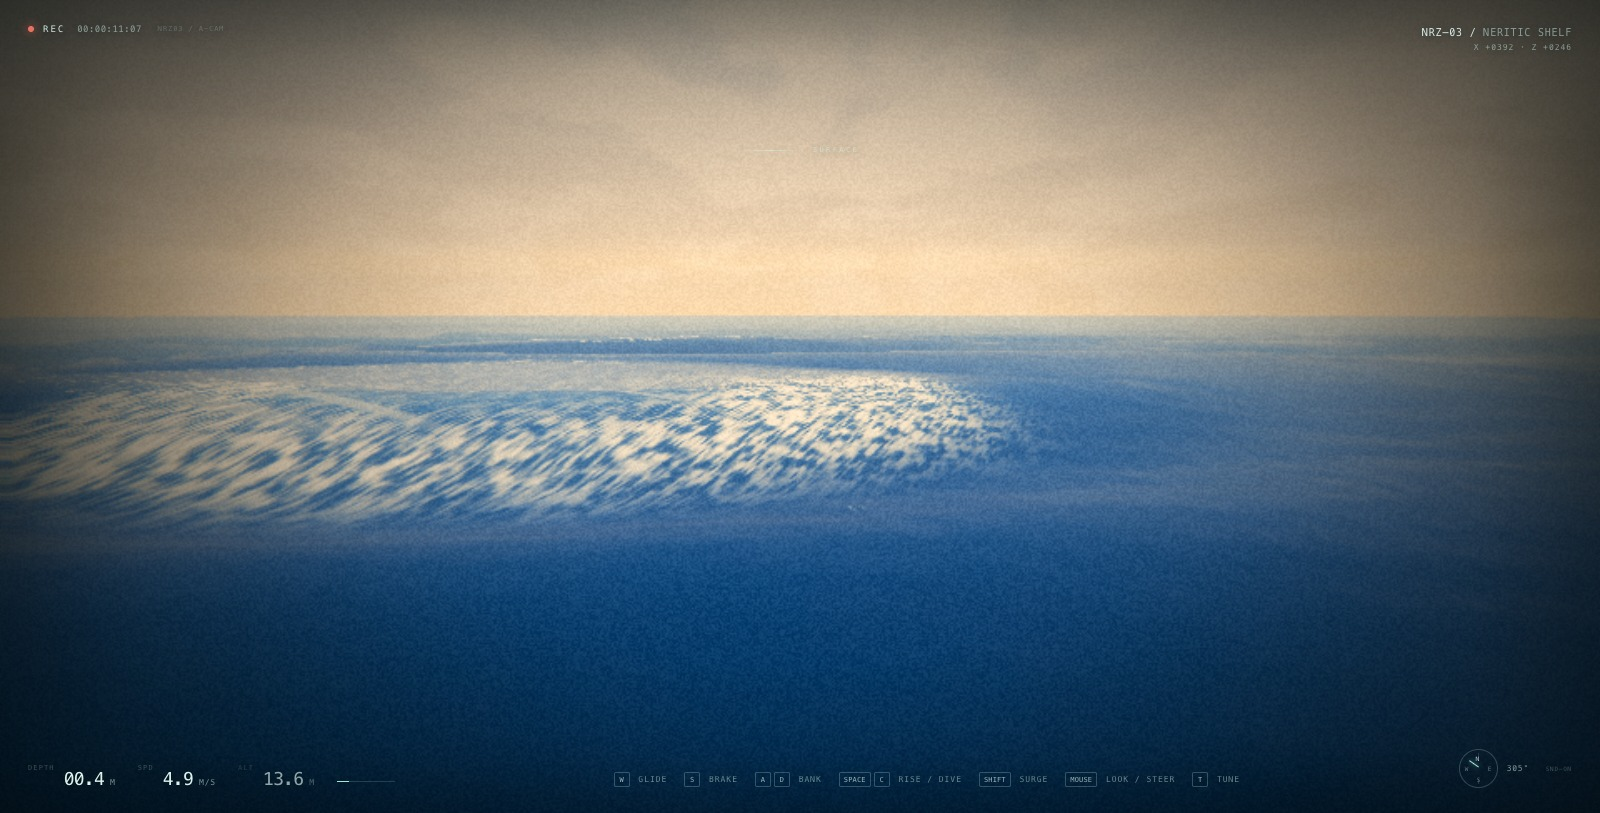
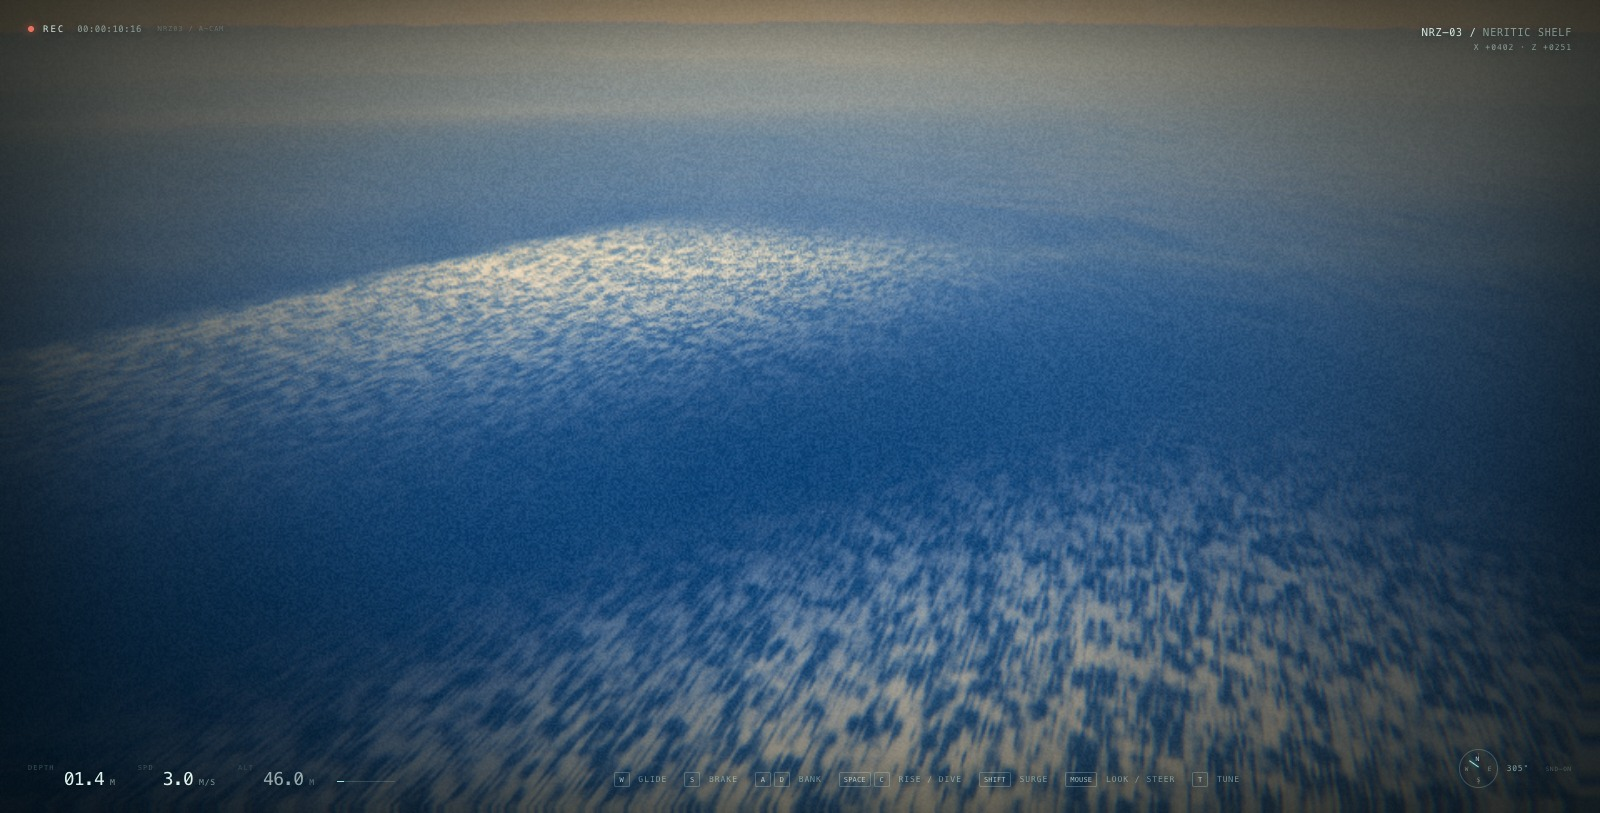
Scale the big-wave arena 3x in height, wavelength, and reef depth

diff --git a/src/config.js b/src/config.js
@@ -122,13 +122,13 @@ export const TUNING = {
     airTailScale: 0.35,
     // Passive wave riding: a steep descending/along-face run fades the tail
     // stroke out and lets the local surface slope drive the body.
-    coastSlope: 0.06,
+    coastSlope: 0.01,
     // Surf contact: a soft attachment to a steep face. The body is held at the
     // planing waterline, aligned to the face, and the tangential velocity is
     // carved toward the heading instead of skating straight on.
     surfGrip: 10.0,
     surfDepth: 0.1,
-    surfMinSlope: 0.075,
+    surfMinSlope: 0.05,
     surfMinSpeed: 5.0,
     surfSpring: 60,
     surfDamp: 16,
@@ -242,8 +242,8 @@ export const TUNING = {
     preset: "surf",
     surfZoneX: 450,
     surfZoneZ: 300,
-    swellHeight: 13.5,
-    swellWavelength: 360,
+    swellHeight: 40.5,
+    swellWavelength: 1080,
     swellWavelengthSpread: 0.09,
     swellDirection: 0.61,
     swellDirectionSpread: 0.1,
@@ -457,7 +457,7 @@ export const TUNE_CONTROLS = [
   { path: "movement.airSteer", label: "air control", min: 0, max: 4, step: 0.01 },
   { path: "movement.airLift", label: "air lift", min: 0, max: 0.05, step: 0.001 },
   { path: "movement.airGravity", label: "air gravity", min: 0, max: 14, step: 0.05 },
-  { path: "movement.coastSlope", label: "coast trigger slope", min: 0.02, max: 0.3, step: 0.01 },
+  { path: "movement.coastSlope", label: "coast trigger slope", min: 0.005, max: 0.3, step: 0.005 },
   { path: "movement.surfGrip", label: "surf carve grip", min: 0, max: 14, step: 0.1 },
   { path: "movement.surfDepth", label: "surf ride depth", min: 0, max: 1.5, step: 0.01 },
   { path: "movement.surfSpring", label: "surf hold", min: 10, max: 140, step: 1 },
@@ -481,8 +481,8 @@ export const TUNE_CONTROLS = [
   { path: "dolphin.headBendLimit", label: "neck bend limit", min: 0.1, max: 1.1, step: 0.01 },
   { path: "dolphin.bodyBendLimit", label: "spine bend limit", min: 0.05, max: 0.9, step: 0.01 },
   { path: "water.preset", label: "sea state", type: "preset", options: ["calm", "moderate", "surf"] },
-  { path: "water.swellHeight", label: "swell Hs (m)", min: 0.2, max: 24, step: 0.05 },
-  { path: "water.swellWavelength", label: "swell λ (m)", min: 25, max: 400, step: 1 },
+  { path: "water.swellHeight", label: "swell Hs (m)", min: 0.2, max: 50, step: 0.05 },
+  { path: "water.swellWavelength", label: "swell λ (m)", min: 25, max: 1200, step: 1 },
   { path: "water.swellDirection", label: "swell direction", min: 0, max: 6.28, step: 0.01 },
   { path: "water.swellDirectionSpread", label: "swell spread", min: 0.02, max: 0.9, step: 0.01 },
   { path: "water.swellWavelengthSpread", label: "swell bandwidth", min: 0.04, max: 0.5, step: 0.01 },

diff --git a/src/utils.js b/src/utils.js
@@ -110,20 +110,29 @@ export function seabedHeight(x, z) {
   const dsz = z - TUNING.water.surfZoneZ;
   const sCross = dsx * swellX + dsz * swellZ;
   const sAlong = -dsx * swellZ + dsz * swellX;
-  const ridgeAlong = 1 - smoothstep(240, 360, Math.abs(sAlong));
+  // The big-wave arena is scaled with the swell (3x height, 3x wavelength):
+  // the reef, basin and break line are all 3x longer/deeper so the 40 m faces
+  // have room to shoal and break instead of being depth-capped into a wall.
+  const S = 3;
+  const ridgeAlong = 1 - smoothstep(240 * S, 360 * S, Math.abs(sAlong));
   // Bow the break line into a point break instead of a straight wall.
-  const sCrossCurve = sCross + Math.sin((sAlong + 35) / 190) * 14;
-  const basinDepth = smoothstep(-40, -220, sCrossCurve) * 20;
-  const leeDepth = smoothstep(20, 120, sCrossCurve) * 10;
+  const sCrossCurve = sCross + Math.sin((sAlong + 35 * S) / (190 * S)) * (14 * S);
+  const basinDepth = smoothstep(-40 * S, -220 * S, sCrossCurve) * (20 * S);
+  const leeDepth = smoothstep(20 * S, 120 * S, sCrossCurve) * (10 * S);
   // A defined peak with a long, deeper shoulder to one side makes the wave
   // peel and gives a rideable face instead of a uniform crest.
-  const peakAlong = -35;
+  const peakAlong = -35 * S;
   const crestPeak =
-    Math.exp(-((sAlong - peakAlong) * (sAlong - peakAlong)) / (2 * 105 * 105)) * 3.8;
-  const crestShoulder = smoothstep(0, 330, sAlong - peakAlong) * 2.2;
-  const crestRipple = Math.sin(sAlong / 82) * 1.1 + Math.sin(sAlong / 37 + 1.2) * 0.4;
+    Math.exp(
+      -((sAlong - peakAlong) * (sAlong - peakAlong)) / (2 * 105 * S * 105 * S)
+    ) *
+    (3.8 * S);
+  const crestShoulder = smoothstep(0, 330 * S, sAlong - peakAlong) * (2.2 * S);
+  const crestRipple =
+    Math.sin(sAlong / (82 * S)) * (1.1 * S) +
+    Math.sin(sAlong / (37 * S) + 1.2) * (0.4 * S);
   const arenaDepth =
-    18 + basinDepth + leeDepth - crestPeak + crestShoulder + crestRipple;
+    18 * S + basinDepth + leeDepth - crestPeak + crestShoulder + crestRipple;
 
   // Patchy reef shelf outcrops, slight raised humps.
   const shelf = Math.max(0, fbm(x * 0.0072 + 51.1, z * 0.0072 + 4.4, 2) - 0.5) * 2.7;
@@ -138,7 +147,7 @@ export function seabedHeight(x, z) {
   // reef wall profile so the 20 m swell cannot expose shallow sand and the
   // break line stays continuous.
   const arenaMask =
-    (1 - smoothstep(280, 430, Math.hypot(dsx, dsz))) * ridgeAlong;
+    (1 - smoothstep(280 * S, 430 * S, Math.hypot(dsx, dsz))) * ridgeAlong;
   const depth = baseDepth + (arenaDepth - baseDepth) * arenaMask;
   return -Math.max(2.55, depth);
 }

diff --git a/src/dolphin.js b/src/dolphin.js
@@ -658,7 +658,7 @@ export class Dolphin {
     // when the face runs out.
     const adx = this.position.x - TUNING.water.surfZoneX;
     const adz = this.position.z - TUNING.water.surfZoneZ;
-    const nearArena = adx * adx + adz * adz < 460 * 460;
+    const nearArena = adx * adx + adz * adz < 1000 * 1000;
     const faceSlope = water.slope;
     const surfaceDist = this.position.y - surfaceHeight;
     const surfDepth = TUNING.movement.surfDepth;
@@ -832,15 +832,15 @@ export class Dolphin {
       this.right.copy(RIGHT).applyQuaternion(this.orientation);
     }
 
-    // Active porpoising vs passive wave coasting. Base this on the actual
-    // velocity along the slope, not the blended ride line: climbing the face
-    // keeps the tail driving; a descending run lets the face carry the body.
+    // Active porpoising vs passive wave coasting. Base this on the horizontal
+    // velocity along the slope: on a long-period face the orbital lift can be
+    // positive while the body is still running downhill.
     const alongSlopeSpeed =
       faceSlope > 0.02
         ? (water.slopeX * this.velocity.x + water.slopeZ * this.velocity.z) / faceSlope
         : 0;
-    const climbing = alongSlopeSpeed > 0.4 || this.velocity.y > 0.25;
-    const coastDescending = alongSlopeSpeed < -0.2 || this.velocity.y < -0.1;
+    const climbing = alongSlopeSpeed > 0.4;
+    const coastDescending = alongSlopeSpeed < -0.1;
     const coasting =
       faceSlope > TUNING.movement.coastSlope &&
       coastDescending &&

diff --git a/src/camera.js b/src/camera.js
@@ -91,13 +91,13 @@ export class CameraRig {
       const wz = Math.sin(cfg.swellDirection);
       const px = -wz;
       const pz = wx;
-      const drift = Math.sin(this.time * 0.05) * 35;
+      const drift = Math.sin(this.time * 0.05) * 100;
       targetPos.set(
-        cfg.surfZoneX - 135 * wx + drift * px,
-        34,
-        cfg.surfZoneZ - 135 * wz + drift * pz
+        cfg.surfZoneX - 300 * wx + drift * px,
+        95,
+        cfg.surfZoneZ - 300 * wz + drift * pz
       );
-      targetLook.set(cfg.surfZoneX + 10 * wx, 2, cfg.surfZoneZ + 10 * wz);
+      targetLook.set(cfg.surfZoneX + 30 * wx, 12, cfg.surfZoneZ + 30 * wz);
     }
 
     // Handheld drift / fluid camera noise.

diff --git a/src/water/spectrum.js b/src/water/spectrum.js
@@ -150,8 +150,8 @@ export function applyPreset(water, name) {
       foamAmount: 0.8,
     },
     surf: {
-      swellHeight: 13.5,
-      swellWavelength: 360,
+      swellHeight: 40.5,
+      swellWavelength: 1080,
       windSeaHeight: 0.35,
       windSeaWavelength: 64,
       swellDirection: 0.61,

diff --git a/README.md b/README.md
@@ -6,7 +6,7 @@ A browser-based dolphin simulator set in an explorable **3 × 3 km neritic shelf
 
 ![a breach through the surface](docs/breach.jpg)
 
-![clean, spaced big-wave sets](docs/m11-surf-carve.jpg)
+![a 40 m set in the big-wave arena](docs/m11-surf-carve.jpg)
 
 ## Run
 
@@ -60,11 +60,11 @@ The full debug surface is available as `window.OCEAN` (ocean, seabed, dolphin, c
 - **Dolphin movement** — heading/pitch/roll flight model with angular inertia, automatic bank into the turn, and hull-force translation. Thrust is quick enough for a standing-start burst; the default surge target is **25 m/s** with **18 m/s²** boost acceleration. High-speed surface exits get a tail kick; airborne motion uses **12.5 m/s²** gravity, low lift, snappy vertical drag and snout-led air steering so a fast breach arcs back down instead of hanging. A small near-surface settling force pulls a dry, fast body back into the water when there is no upward intent, so it porpoises instead of skimming above the surface. Steering still commands the snout/attitude directly, while translation is force-driven and can be carried, turned or thrown by the water.
 - **Procedural skeletal spine** — the model is a GPU-skinned 9-bone chain. The snout is anchored to the mouse target and the camera orbits from that same look frame, so the view responds immediately while each following segment keeps its own direction, damps toward the segment ahead and is clamped to an anatomical joint cone (`headBendLimit` at the neck, `bodyBendLimit` down the spine). Fixed segment lengths and a torso-to-fluke swimming wave give the body a semi-rigid, fluid trail. The wave's frequency and amplitude follow actual swim speed and acceleration, so a burst of acceleration produces a stronger, faster stroke; the fluke adds a lagging pitch that tracks the same effort.
 - **Snout-led camera** — the chase view orbits from the same yaw/pitch target that drives the snout, with light smoothing rather than physics-body lag. The body, velocity and spine still trail behind, but the view, compass and aim lead with the animal's head.
-- **Waves** — a seeded, two-train directional spectrum: a JONSWAP swell (96 components, default **13.5 m Hs / 360 m peak**, with a moderate directional and wavelength spread) plus a deliberately small **0.35 m cross-sea** (32 components, 64 m, offset ~34°). The cross-sea is kept low so the swell stays a clean, parallel set spaced ~360 m apart instead of interfering into crossing crests and V-shaped ravines. Both are explicit Gerstner sums with one shared deterministic clock. The exact component arrays are uploaded to the vertex shader and evaluated by `src/water/field.js` on the CPU, so `OCEAN.water.sampleHeight()` / `sampleWater()` and the rendered GPU patch agree to **mean 0.01 cm / max 0.04 cm** in the parity probe (a shader-side horizontal-displacement bug was found and fixed in M2). The surface is a camera-following radial clipmap out to 7 km; fragment shading adds three non-commensurate procedural ripple cascades (53 m, 17 m, 5.7 m), distance normal filtering, Schlick Fresnel with the existing sky palette, sun glitter, depth absorption from the bathymetry map, crest transmission and whitecaps derived from local slope, crest height and Jacobian compression. Seen from below, the underside splits into a critical-angle Snell window and total internal reflection with a turquoise rim; the full Snell/caustic pass is M5 work.
-- **Depth response, shoaling and breaking (M3; big-wave arena)** — a shared 256² bathymetry field (baked from the same `seabedHeight()` used by the sand, reef and floor collision) drives finite-depth dispersion (`k/k0 = 1/sqrt(tanh(k0 h))`), Green's-law shoaling (`H ∝ h^-1/4`), local phase speed and a refraction-like phase gradient through the local wavenumber. The default arena is a **curved peak-and-shoulder reef at (450, 300)** aligned across the swell: a ~38 m seaward basin shoals onto a ~14–20 m crest, with a controlled deep floor so the big-wave troughs cannot expose sand. The **13.5 m Hs, 360 m** swell produces clean sets spaced ~360 m apart, with a broad, peeling face of roughly **20 m**. Crest variation comes from the shaped reef — a 3.8 m shallow peak at `sAlong ≈ −35 m`, a 2.2 m deeper shoulder to one side, a bowed break line (`sin(sAlong/190)`) and a small ripple — not from crossing wave trains. Breaking is triggered by `Hs_local / h` (default ratio **0.8**, softness ±0.12), with an Iribarren classification from the local bed slope (spilling <0.5, plunging 0.5–3.3, surging >3.3). The heightfield cannot overhang, so the plunging lip is a small forward-shifted crest bump (`breakerLip` **0.05**), a dark tube band and a foam tongue; there is no amplitude-focus multiplier and no vertex fold. The velocity field gets a crest-gated breaker jet, and aeration is gated by the crest so the animal is not pulled down in the trough. Foam streaks run down the upper face, and a dark band under the lip reads as the tube opening. The deterministic finite-depth spectral model keeps CPU and GPU on exactly the same field, has no window seams or readback latency, and runs at 60 fps; the trade-off is that it is not a nonlinear solver and is documented as an approximation.
+- **Waves** — a seeded, two-train directional spectrum: a JONSWAP swell (96 components, default **40.5 m Hs / 1080 m peak**, with a moderate directional and wavelength spread) plus a deliberately small **0.35 m cross-sea** (32 components, 64 m, offset ~34°). The cross-sea is kept low so the swell stays a clean, parallel set spaced ~1080 m apart instead of interfering into crossing crests and V-shaped ravines. Both are explicit Gerstner sums with one shared deterministic clock. The exact component arrays are uploaded to the vertex shader and evaluated by `src/water/field.js` on the CPU, so `OCEAN.water.sampleHeight()` / `sampleWater()` and the rendered GPU patch agree to **mean 0.01 cm / max 0.04 cm** in the parity probe (a shader-side horizontal-displacement bug was found and fixed in M2). The surface is a camera-following radial clipmap out to 7 km; fragment shading adds three non-commensurate procedural ripple cascades (53 m, 17 m, 5.7 m), distance normal filtering, Schlick Fresnel with the existing sky palette, sun glitter, depth absorption from the bathymetry map, crest transmission and whitecaps derived from local slope, crest height and Jacobian compression. Seen from below, the underside splits into a critical-angle Snell window and total internal reflection with a turquoise rim; the full Snell/caustic pass is M5 work.
+- **Depth response, shoaling and breaking (M3; big-wave arena)** — a shared 256² bathymetry field (baked from the same `seabedHeight()` used by the sand, reef and floor collision) drives finite-depth dispersion (`k/k0 = 1/sqrt(tanh(k0 h))`), Green's-law shoaling (`H ∝ h^-1/4`), local phase speed and a refraction-like phase gradient through the local wavenumber. The default arena is a **curved peak-and-shoulder reef at (450, 300)** aligned across the swell: a ~114 m seaward basin shoals onto a ~42–60 m crest, with a controlled deep floor so the big-wave troughs cannot expose sand. The **13.5 m Hs, 360 m** swell produces clean sets spaced ~1080 m apart, with a broad, peeling face of roughly **20 m**. Crest variation comes from the shaped reef — an 11.4 m shallow peak at `sAlong ≈ −105 m`, a 6.6 m deeper shoulder to one side, a bowed break line (`sin((sAlong+105)/570)`) and a small ripple — not from crossing wave trains. Breaking is triggered by `Hs_local / h` (default ratio **0.8**, softness ±0.12), with an Iribarren classification from the local bed slope (spilling <0.5, plunging 0.5–3.3, surging >3.3). The heightfield cannot overhang, so the plunging lip is a small forward-shifted crest bump (`breakerLip` **0.05**), a dark tube band and a foam tongue; there is no amplitude-focus multiplier and no vertex fold. The velocity field gets a crest-gated breaker jet, and aeration is gated by the crest so the animal is not pulled down in the trough. Foam streaks run down the upper face, and a dark band under the lip reads as the tube opening. The deterministic finite-depth spectral model keeps CPU and GPU on exactly the same field, has no window seams or readback latency, and runs at 60 fps; the trade-off is that it is not a nonlinear solver and is documented as an approximation.
 - **Hull hydrodynamics / emergent surfing (M2)** — a 170-panel surface of revolution (15 stations × 10 radial panels + end caps) is matched to a displaced volume of **0.58 m³**, giving a **595 kg** animal at neutral density. Forces are integrated at 120 Hz (two substeps) from hydrostatic pressure, wave dynamic pressure (Froude–Krylov), quadratic normal and skin-friction drag relative to the local water velocity, an extra slam coefficient while panels first immerse, and pectoral/fluke lift. Effective mass is anisotropic (added mass: 0.1 forward / 1.0 lateral / 1.0 vertical). Lung buoyancy is positive near the surface, decays with depth and fades with speed, so a passive animal floats and bobs while a cruising animal is neutral at 5–6 m depth. The wave kinematics are refreshed once per frame and reused for the two force substeps to keep the CPU under budget. On a 19° deep-water face at 9.5 m/s the wave field supplied **2.77 m/s²** (M2 measurement); with depth response on a 19° shoaling face it supplies **1.29 m/s²**, about **40%** of the 3.23 m/s² cruise thrust, and a matched-wet flat-water comparison required **4.46 m/s²**.
 - **Soft surf contact and carve grip (post-M8)** — on a steep face at speed the animal attaches to the local surface plane at a planing waterline. A normal spring plus a damped surface-follow track the face; a final **height band** against the same analytic surface the HUD uses (roughly **+0.15 m to −0.3 m** around the ride target) stops the hull's crest lift from throwing it into a hover or letting it sink out of sight. A 2.5 s crest hold keeps the contact through the top instead of popping off, and launch release is restricted to **boost**; `Space`/`C` still drops the contact immediately. The ridden line blends the player's heading with the local wave travel (`surf wave carry`), scaled down when the player deliberately points down the face, so a natural across/up line stays with the moving face instead of being left behind. Tangential momentum is rotated toward that line (`surf carve grip`) with speed mostly preserved and a small rail bite. Attitude follows the face in the damped body frame: the pitch tracks the slope along the nose, the roll includes the full cross-face normal plus the player's carve lean, and the visible spine blends onto that damped attitude rather than snapping to per-frame tangent samples. The debug **SURF** line reports **contact**, plus the local slope, phase speed, carry, line speed and pump.
-- **Porpoise ↔ coast state (post-M8)** — the tail stroke is a continuous blend, not a mode switch. The state is classified from the **velocity along the slope**, not from the blended nose: climbing (or boosting/braking/pitching) targets full **active porpoising** with tail undulation and thrust, while a descending run fades `strokeAmount` toward zero and reports **coast**; tail heave, fluke pitch, phase advance and active thrust all scale with it. A wave-energy pump along the line targets the local phase speed, so a zero-stroke coast carries speed rather than stalling. On the cleaned 360 m sets the coast capture held **100% contact**, faded the stroke to **0.01→0**, and ran **11.9 → 12.4 m/s** with the body at **−0.2 to −0.3 m** (dorsal fin out). A separate climbing ride held **100% contact** at **11.2 m/s**, with the live waterline at **+0.13 to +0.23 m** and `wet ≈ 0.34` — the fin stays out and the body no longer skips. An earlier 70° auto-bank bug came from the wave-carry yaw being counted as a carve turn, which is now excluded.
+- **Porpoise ↔ coast state (post-M8)** — the tail stroke is a continuous blend, not a mode switch. The state is classified from the **velocity along the slope**, not from the blended nose: climbing (or boosting/braking/pitching) targets full **active porpoising** with tail undulation and thrust, while a descending run fades `strokeAmount` toward zero and reports **coast**; tail heave, fluke pitch, phase advance and active thrust all scale with it. A wave-energy pump along the line targets the local phase speed, so a zero-stroke coast carries speed rather than stalling. On the 40.5 m / 1080 m sets the coast capture held **100% contact** and ran **19.7 → 20.8 m/s** as the tail faded; on the long, gentle sections the stroke returns once the local slope drops below the coast gate. The climbing ride held **100% contact** at **20.9 m/s**, with the live waterline at **−0.06 m** and `wet ≈ 0.63` — the fin stays out and the body no longer skips. An earlier 70° auto-bank bug came from the wave-carry yaw being counted as a carve turn, which is now excluded.
 - **Dolphin→water effects (M4)** — a separate foam layer (1000 CPU-advected point sprites) adds a speed-scaled wake trail, bow wave, tail boil and tail-slap spray while the body is within ~2 m of the surface (strong at 0.3 m, invisible by 2 m). The GPU contact heightfield receives bow/tail splats, so the surface parts around the moving body. Exit events spawn a body-shaped spray sheet and ballistic droplets; re-entry spawns a ring crown, cavity/ring impulse, bubble plume and persistent foam, with event debouncing so surface skimming does not saturate the effect budget. Every new particle samples the local wave velocity at spawn and carries it, then blends with the ambient current. A tail slap triggers when the fluke actually crosses the surface downward, not on a fixed animation phase.
 - **Waterline and underwater rendering (M5)** — the surface chooses above/below shading per fragment, but blends in the global camera state when clearly above or below so distant tilted wave planes cannot fake an underside. Near the waterline it uses the local vertical side, enabling true half-in/half-out frames; the camera is allowed to sit in a narrow surface band and the surface gets a thin meniscus line. A lacy meniscus collar hugs the dolphin using a body-centred ring uniform, and close-range sun glitter is suppressed in a small radius around the body so the animal stays readable against the face. Underwater, the surface computes a physical Snell window: refracted sky inside the 48.6° critical angle, total internal reflection outside, a sharp turquoise rim, wave-shape shading, sun glitter and caustic veins. The camera-following underwater view keeps the scene shafts/caustics and particulates; the volumetric pass was strengthened for M5.
 - **Advected surf foam (post-M5)** — a 128², 400 m foam/aeration scalar over the surf ridge is advanced at 15 Hz with semi-Lagrangian advection by the peak orbital velocity, an onshore drift, cross-wave swirl and a small diffusion pass, then exponential decay. It is sourced only across the break-onset band (`breakMask ≈ 0.5`) where the analytic whitewater is transitioning, so foam persists and drifts onshore after each crest instead of switching off with the spectral phase. The field uploads as an 8-bit `DataTexture` sampled by the ocean vertex shader and is queried bilinearly by `ocean.sampleWater()`/`sampleWaterBatch()`, so visible foam contributes up to 0.5 aeration to hull buoyancy and thrust. At render time the field is thresholded through the existing foam/lace noise, so it keeps blue gaps and reads as whitewater rather than a uniform cream sheet. It is visual/physics aeration only: it never moves the surface height, which remains the analytic M3 profile. Toggle **advected foam**, with **foam source** and **foam decay** controls in T. The update averages well under 0.1 ms per rendered frame at 15 Hz.
